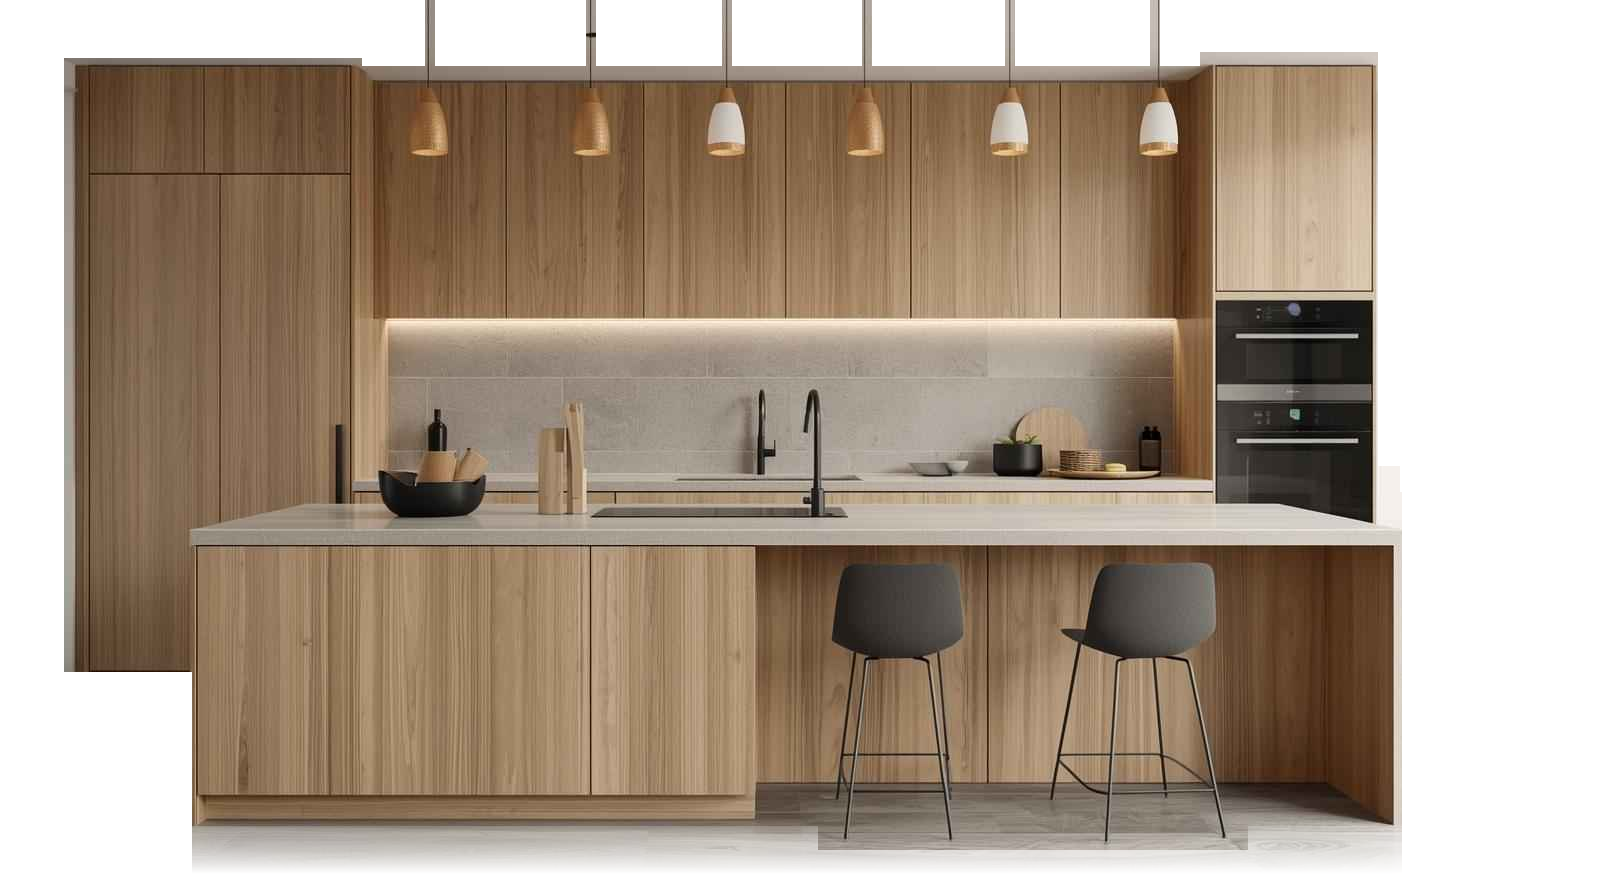
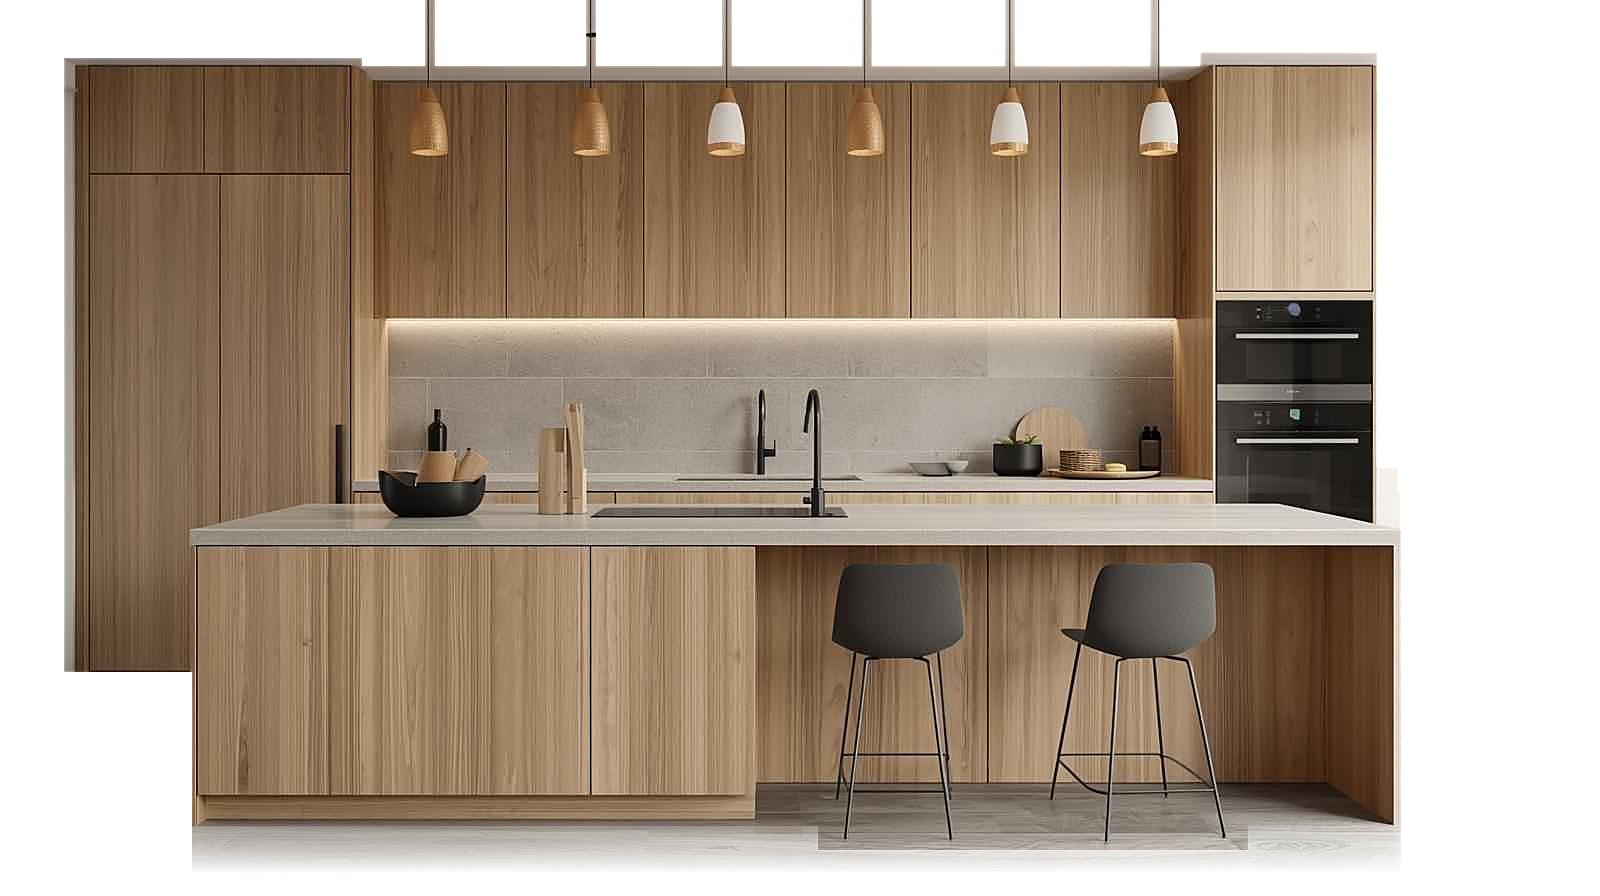
Sharpen hero canvas: exact device-pixel backing store + unsharp-masked photo

diff --git a/public/scripts/renuva-photo-kitchen.js b/public/scripts/renuva-photo-kitchen.js
@@ -56,14 +56,25 @@ window.RenuvaPhotoKitchen = (function () {
   }
 
   function create(canvas) {
-    // render at device-pixel resolution so the canvas stays sharp on retina displays
-    const S = Math.min(window.devicePixelRatio || 1, 2);
-    canvas.width = Math.round(W * S);
-    canvas.height = Math.round(H * S);
     const ctx = canvas.getContext('2d');
-    ctx.scale(S, S);
-    ctx.imageSmoothingEnabled = true;
-    ctx.imageSmoothingQuality = 'high';
+
+    // Match the backing store to the canvas's on-screen device-pixel size so the
+    // 1600px source art goes through a single near-1:1 resample instead of an
+    // upscale-then-downscale round trip. Re-fit whenever the layout resizes.
+    let fitScale = 0;
+    function fit() {
+      const cssW = canvas.clientWidth || canvas.getBoundingClientRect().width || W;
+      const dpr = Math.min(window.devicePixelRatio || 1, 3);
+      const scale = Math.max(cssW * dpr / W, 0.5);
+      if (Math.abs(scale - fitScale) < 0.01) return false;
+      fitScale = scale;
+      canvas.width = Math.round(W * scale);
+      canvas.height = Math.round(H * scale);
+      ctx.setTransform(scale, 0, 0, scale, 0, 0);
+      ctx.imageSmoothingEnabled = true;
+      ctx.imageSmoothingQuality = 'high';
+      return true;
+    }
 
     const n = PIECES.length;
     const L = Math.min(0.2, 2.2 / n);
@@ -101,6 +112,11 @@ window.RenuvaPhotoKitchen = (function () {
         ctx.fillRect(ex - 1.5, ey, 3, eh);
       }
     }
+
+    fit();
+    window.addEventListener('resize', function () {
+      if (fit()) { dirty = true; render(); }
+    });
 
     Promise.all([load(LINES), load(PHOTO)]).then(([li, ph]) => {
       lines = li; photo = ph;
